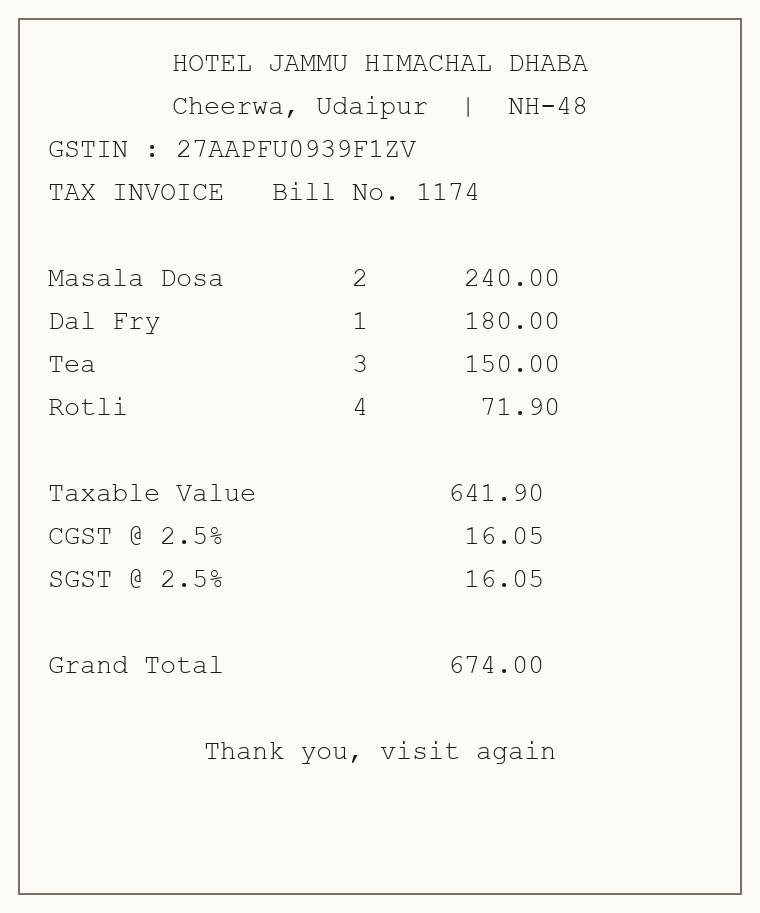
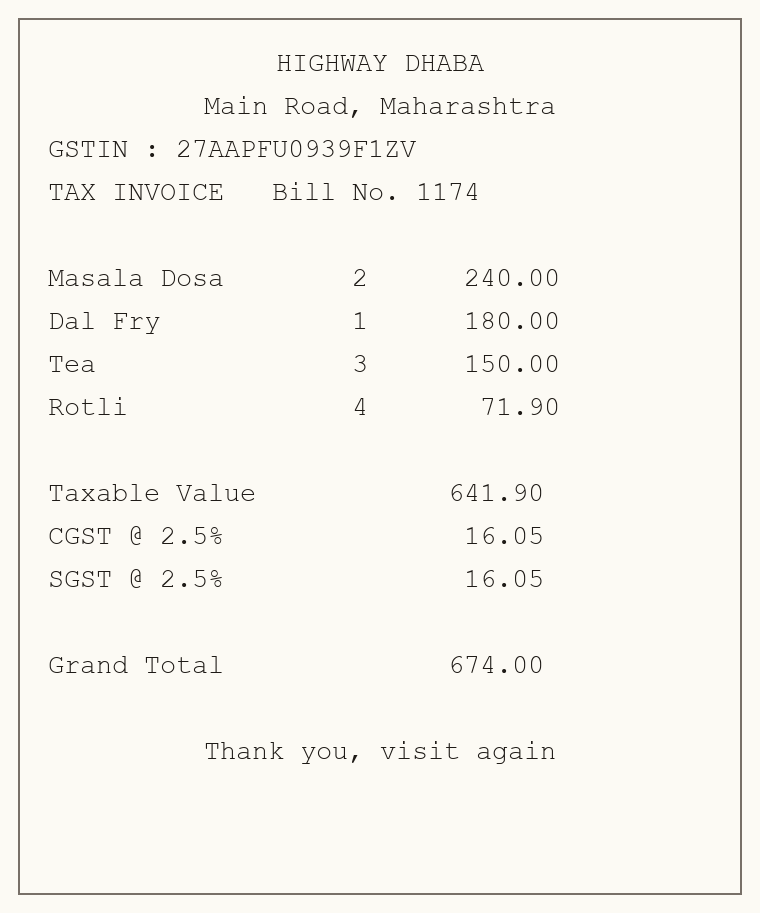
Make the sample-bill fixtures unambiguously fictional
The scanned-bill fixtures named a real business and its real town, carried over
from a public post that prompted the project. Those images are committed and get
served from the deployed site, so naming a real business put it in the repo and
on the public URL. Every fixture name and address is now invented, and the
generator says so.

Also fixes a real fixture bug found while editing: the restaurant fixture's GSTIN
carries state code 27 (Maharashtra) while its address read Udaipur (Rajasthan),
so a decoded state could never have been cross-checked against the printed
address. Each fixture address now matches its GSTIN's state code.

The e2e gained an assertion that the committed image actually contains its
fictional name, so a stale fixture or a reintroduced real name fails the suite
rather than shipping.

Changed region(s): [[0.2421, 0.0613, 0.7868, 0.1227]]

diff --git a/tools/make_sample_bill.py b/tools/make_sample_bill.py
@@ -4,6 +4,12 @@ Run:  uv run --with pillow python tools/make_sample_bill.py
 Writes sample-bills/*.png — a clean one (what a good printer produces) and a
 "photo" version (slight rotation, blur, uneven lighting) to exercise the
 scanner's contrast pass rather than its best case.
+
+Every business name and address below is deliberately fictional. Do not replace
+them with real ones: these images are committed, so naming a real business would
+put it in the repo and on the deployed site. Each address is also chosen to match
+the state code embedded in its GSTIN, so a decoded state can be cross-checked
+against what the bill actually says.
 """
 from __future__ import annotations
 
@@ -20,8 +26,8 @@ FONTS = [
 ]
 
 DHABA_LINES = [
-    ("HOTEL JAMMU HIMACHAL DHABA", "center"),
-    ("Cheerwa, Udaipur  |  NH-48", "center"),
+    ("HIGHWAY DHABA", "center"),
+    ("Main Road, Maharashtra", "center"),   # 27 in the GSTIN below
     ("GSTIN : 27AAPFU0939F1ZV", "left"),
     ("TAX INVOICE   Bill No. 1174", "left"),
     ("", ""),
@@ -40,8 +46,8 @@ DHABA_LINES = [
 ]
 
 COMPOSITION_LINES = [
-    ("SHREE BALAJI TRADERS", "center"),
-    ("Main Road, Jaipur", "center"),
+    ("EXAMPLE TRADERS", "center"),
+    ("Main Road, Rajasthan", "center"),     # 08 in the GSTIN below
     ("GSTIN : 08AAACR5055K1Z7", "left"),
     ("BILL OF SUPPLY", "left"),
     ("Composition taxable person,", "left"),
